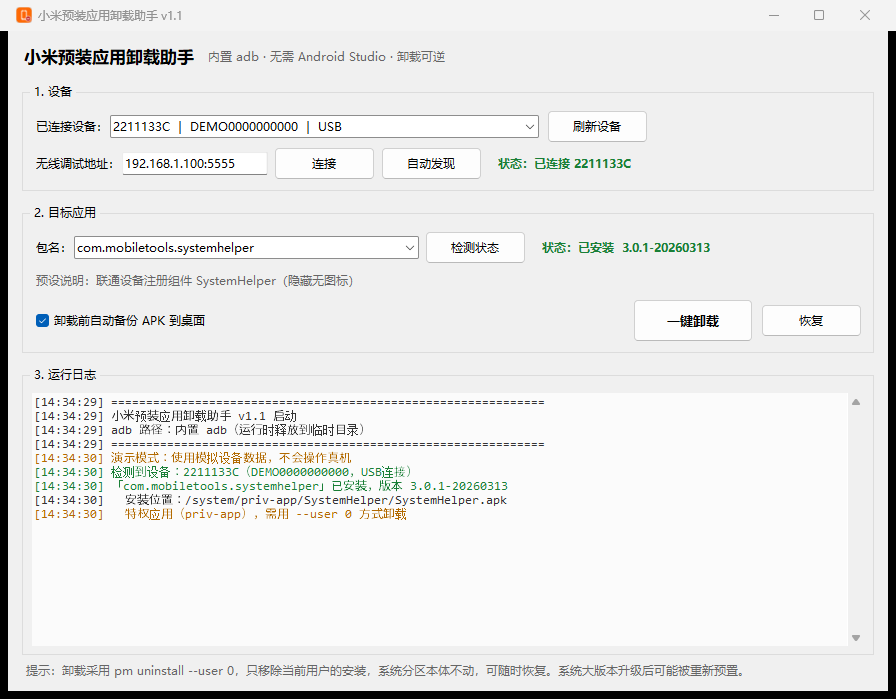
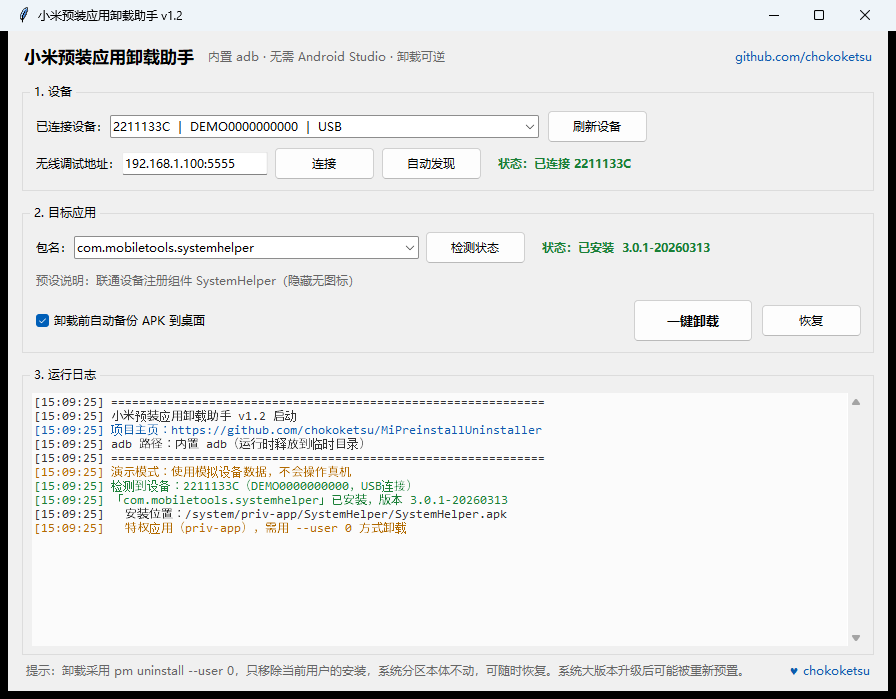
feat: 界面内嵌作者署名 + 文档补充
- 标题栏右上角、日志首行、底部右下角三处放置 GitHub 链接，可点击跳转
- 新增强制版本资源 version_info.txt，作者写入 exe 文件属性
- build.py 支持 --version-file
- README：标题区突出 SystemHelper，新增实战章节与跨品牌兼容性说明
- 版本号升至 1.2.0

diff --git a/src/mi_uninstaller.py b/src/mi_uninstaller.py
@@ -22,12 +22,17 @@ import datetime
 import shutil
 import tempfile
 import ctypes
+import webbrowser
 
 import tkinter as tk
 from tkinter import ttk, messagebox, scrolledtext
 
 APP_NAME = "小米预装应用卸载助手"
-APP_VER = "1.1"
+APP_VER = "1.2"
+
+# 作者署名 / 项目主页
+GH_USER = "chokoketsu"
+GH_URL = "https://github.com/chokoketsu/MiPreinstallUninstaller"
 
 # 演示模式：使用模拟设备数据，便于截图和界面预览，不接触真机
 DEMO = "--demo" in sys.argv
@@ -156,6 +161,7 @@ class App:
 
         self.log("=" * 62)
         self.log("%s v%s 启动" % (APP_NAME, APP_VER))
+        self.log("项目主页：%s" % GH_URL, "cmd")
         if ADB:
             # 演示模式不回显真实路径，避免截图时带出本机用户名
             self.log("adb 路径：%s" % ("内置 adb（运行时释放到临时目录）" if DEMO else ADB))
@@ -181,6 +187,8 @@ class App:
         st.configure("Bad.TLabel", font=("Microsoft YaHei UI", 9, "bold"), foreground="#c62828")
         st.configure("Treeview", font=("Microsoft YaHei UI", 9), rowheight=24)
         st.configure("Treeview.Heading", font=("Microsoft YaHei UI", 9, "bold"))
+        # 署名链接样式
+        st.configure("Link.TLabel", font=("Microsoft YaHei UI", 9), foreground="#0b5cad")
 
     # ------------------------------------------------------------ 界面
     def _build_ui(self):
@@ -194,6 +202,18 @@ class App:
             head, text="内置 adb · 无需 Android Studio · 卸载可逆",
             style="Sub.TLabel"
         ).pack(side="left", padx=(10, 0))
+        # 右上角署名
+        self.lbl_gh_top = ttk.Label(
+            head, text="github.com/%s" % GH_USER, style="Link.TLabel", cursor="hand2"
+        )
+        self.lbl_gh_top.pack(side="right")
+        self.lbl_gh_top.bind("<Button-1>", lambda e: self.open_github())
+        self.lbl_gh_top.bind(
+            "<Enter>", lambda e: self.lbl_gh_top.configure(foreground="#1a7f37")
+        )
+        self.lbl_gh_top.bind(
+            "<Leave>", lambda e: self.lbl_gh_top.configure(foreground="#0b5cad")
+        )
 
         # ---------------- 设备区
         dev = ttk.LabelFrame(self.root, text=" 1. 设备 ")
@@ -269,12 +289,34 @@ class App:
         self.txt.tag_config("cmd", foreground="#0b5cad")
         self.txt.configure(state="disabled")
 
+        # 底部：左侧提示，右侧署名
+        foot = ttk.Frame(self.root)
+        foot.pack(fill="x", padx=16, pady=(0, 10))
         ttk.Label(
-            self.root,
+            foot,
             text="提示：卸载采用 pm uninstall --user 0，只移除当前用户的安装，系统分区本体不动，可随时恢复。"
                  "系统大版本升级后可能被重新预置。",
             style="Sub.TLabel",
-        ).pack(fill="x", padx=16, pady=(0, 10))
+        ).pack(side="left")
+
+        self.lbl_gh_bottom = ttk.Label(
+            foot, text="♥ %s" % GH_USER, style="Link.TLabel", cursor="hand2"
+        )
+        self.lbl_gh_bottom.pack(side="right")
+        self.lbl_gh_bottom.bind("<Button-1>", lambda e: self.open_github())
+        self.lbl_gh_bottom.bind(
+            "<Enter>", lambda e: self.lbl_gh_bottom.configure(foreground="#1a7f37")
+        )
+        self.lbl_gh_bottom.bind(
+            "<Leave>", lambda e: self.lbl_gh_bottom.configure(foreground="#0b5cad")
+        )
+
+    def open_github(self):
+        try:
+            webbrowser.open(GH_URL)
+        except Exception:
+            pass
+        self.log("项目主页：%s" % GH_URL, "cmd")
 
     # ------------------------------------------------------------ 工具
     def log(self, msg, tag="info"):

diff --git a/build.py b/build.py
@@ -30,6 +30,7 @@ for _stream in (sys.stdout, sys.stderr):
 ROOT = Path(__file__).resolve().parent
 SRC = ROOT / "src" / "mi_uninstaller.py"
 ICON = ROOT / "assets" / "icon.ico"
+VERINFO = ROOT / "version_info.txt"
 ADB_DIR = ROOT / "adb_bundle"
 DIST = ROOT / "dist"
 WORK = ROOT / "build"
@@ -111,8 +112,12 @@ def build():
         "--distpath", str(DIST),
         "--workpath", str(WORK),
         "--specpath", str(WORK),
-        str(SRC),
     ]
+    # 把作者信息写进 exe 属性（右键 → 详细信息）
+    if VERINFO.is_file():
+        cmd += ["--version-file", str(VERINFO)]
+    cmd.append(str(SRC))
+
     ret = subprocess.call(cmd)
     if ret != 0:
         print("[!] 打包失败")

diff --git a/README.md b/README.md
@@ -12,7 +12,9 @@
 [![Python](https://img.shields.io/badge/Python-3.9%2B-3776AB?style=flat-square&logo=python&logoColor=white)](https://www.python.org/)
 [![PyInstaller](https://img.shields.io/badge/PyInstaller-onefile-2E8B57?style=flat-square)](https://pyinstaller.org/)
 [![License](https://img.shields.io/badge/License-MIT-yellow?style=flat-square)](LICENSE)
-[![Release](https://img.shields.io/badge/Release-v1.1.0-blue?style=flat-square)](../../releases)
+[![Release](https://img.shields.io/badge/Release-v1.2.0-blue?style=flat-square)](../../releases)
+
+小米 / Redmi / POCO 已实测　·　其他 Android 机型理论可用，未经实机验证
 
 </div>
 
@@ -219,4 +221,4 @@ OTA 大版本升级会重新写入预装应用，重跑一次卸载即可。
 
 ---
 
-<sub>本项目的代码与文档在 AI 辅助下完成，所有操作步骤均在实机上验证过。</sub>
+<sub>作者 <a href="https://github.com/chokoketsu">@chokoketsu</a> · 代码与文档在 AI 辅助下完成，所有操作步骤均经实机验证</sub>
